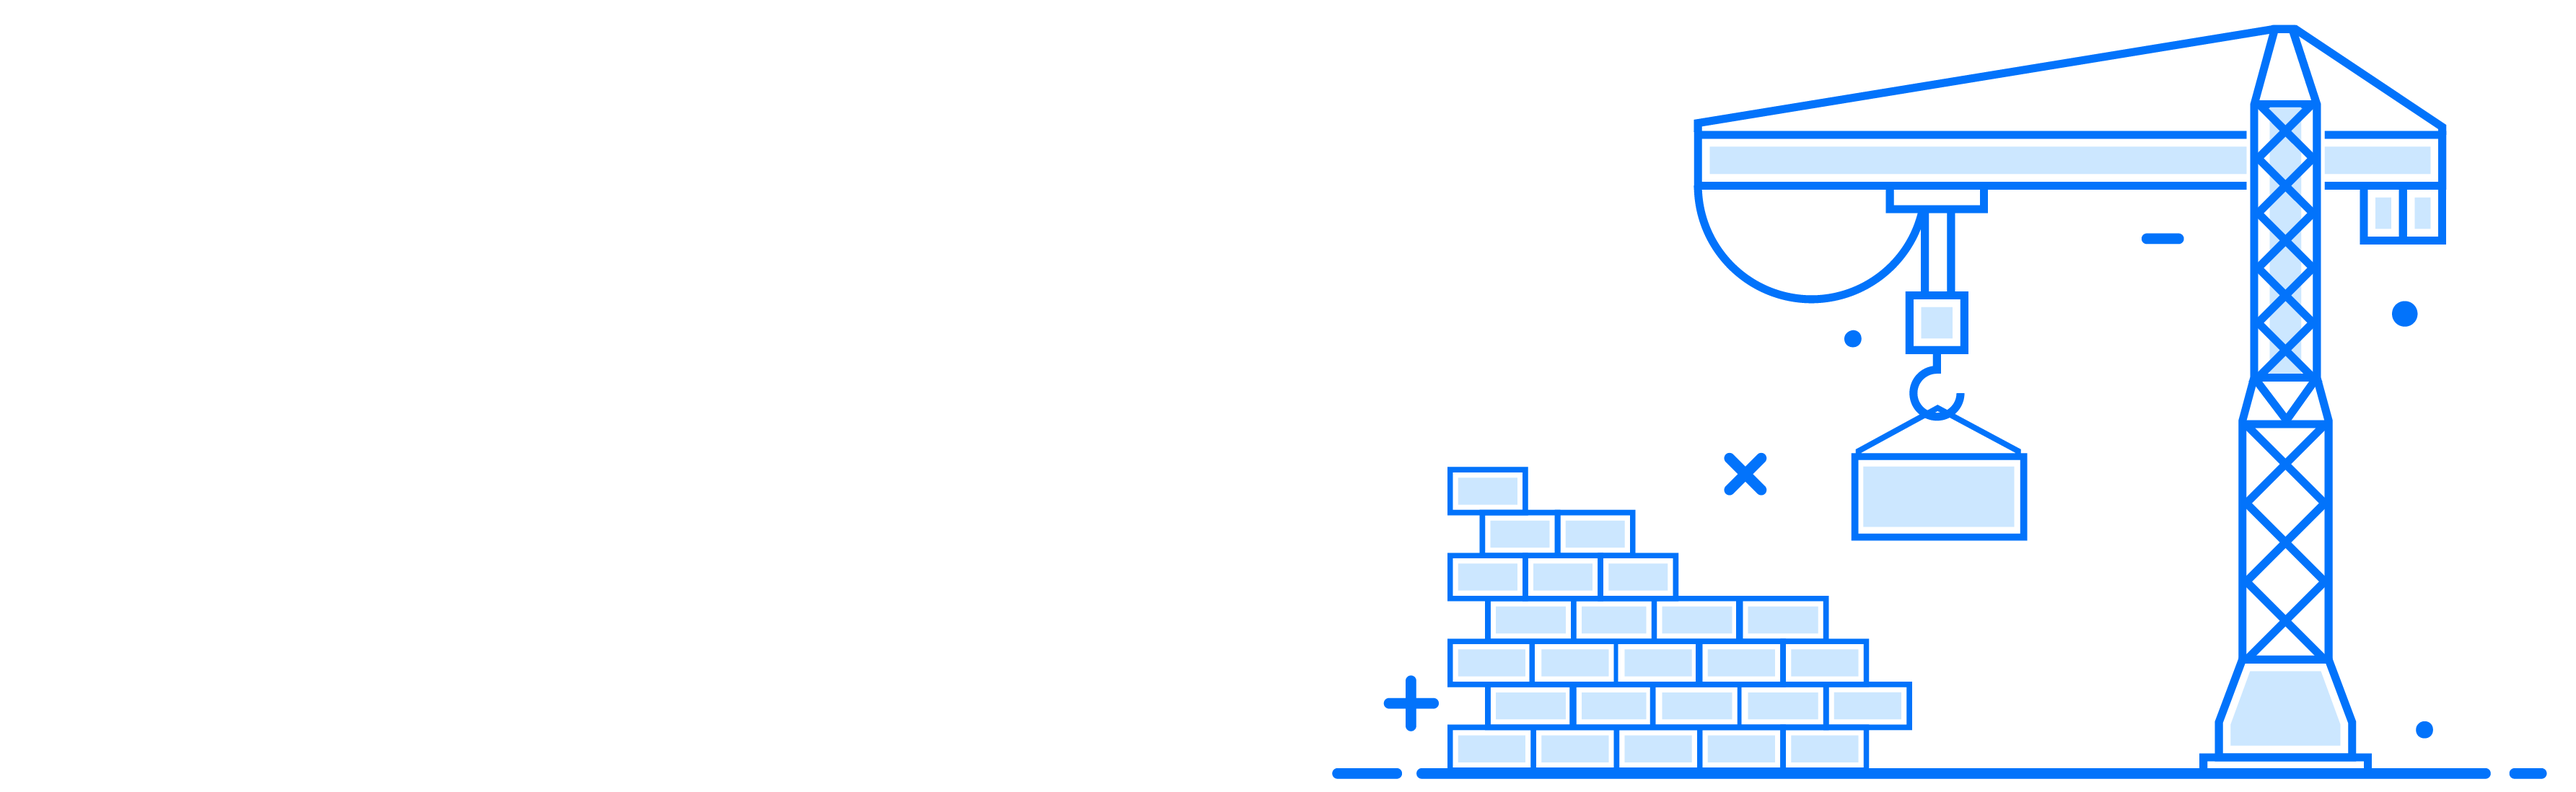
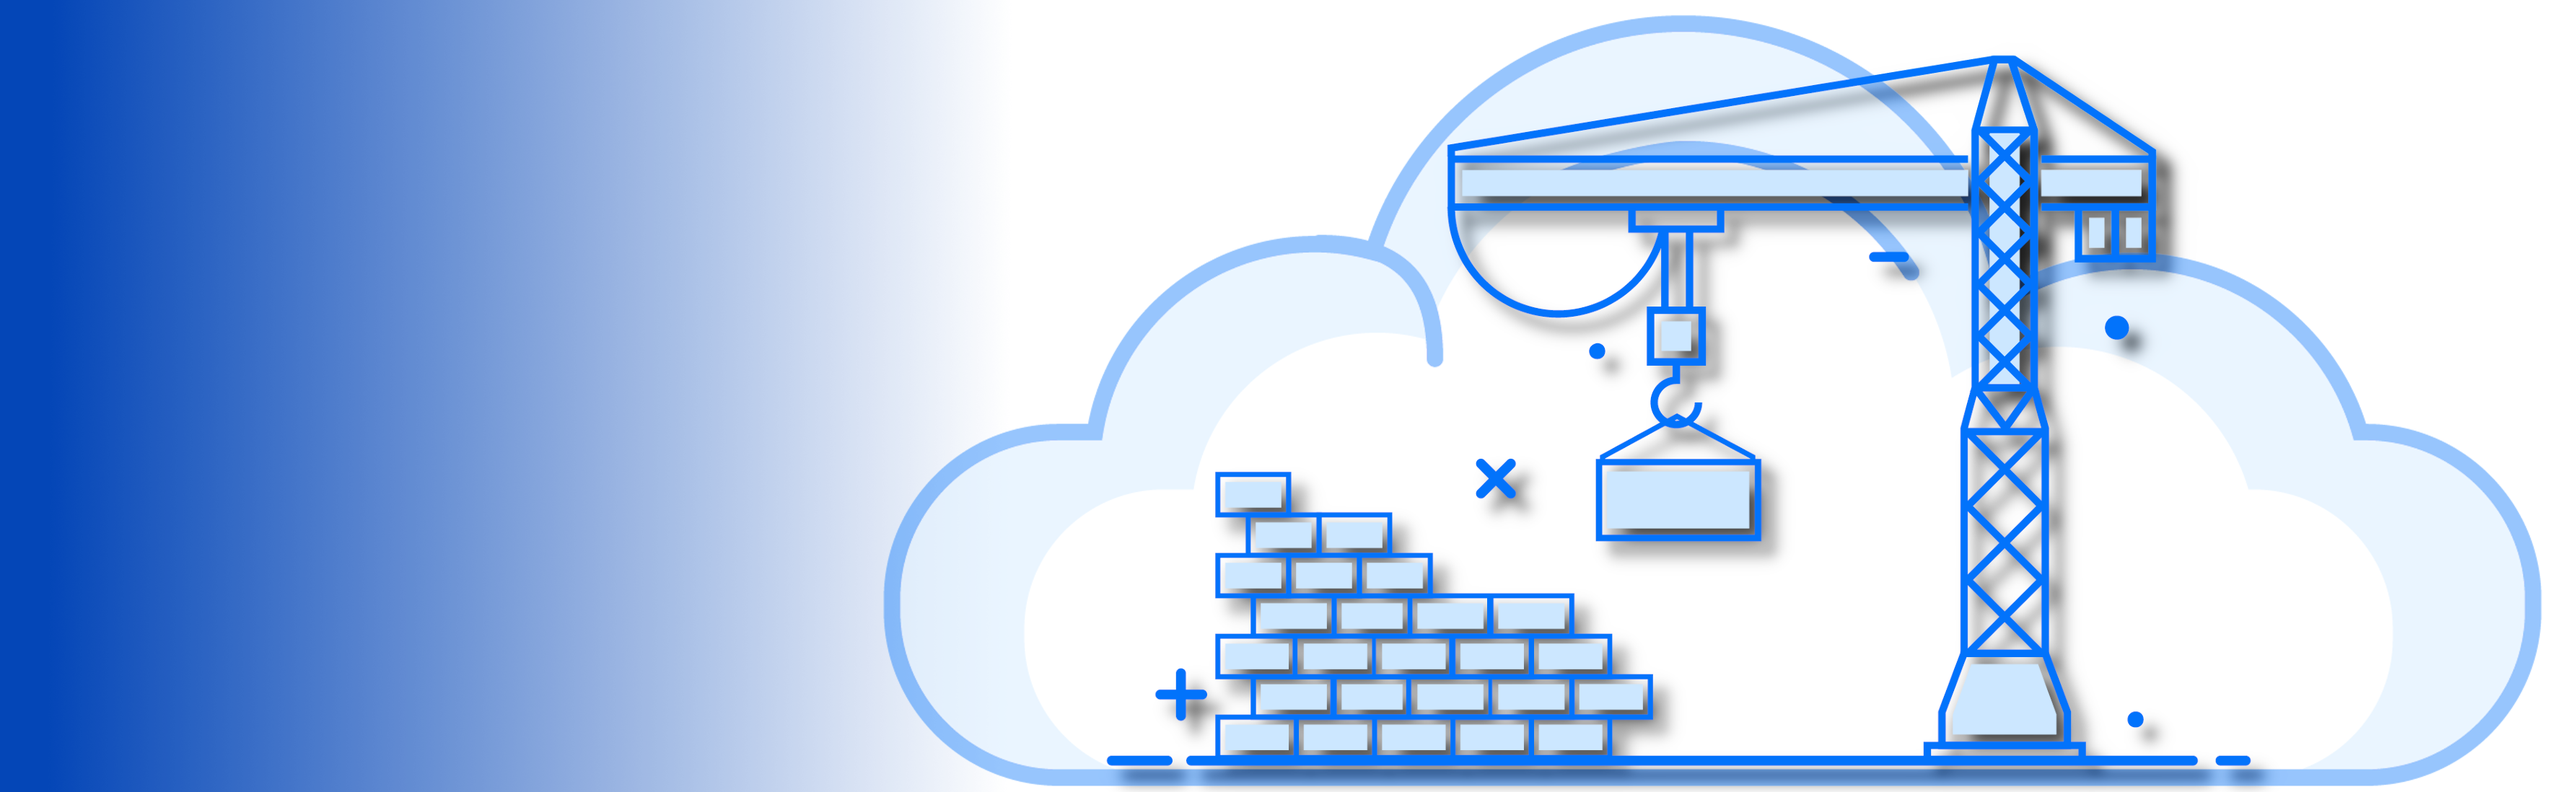
add the home header

diff --git a/docs/_pages/home.md b/docs/_pages/home.md
@@ -4,7 +4,7 @@ permalink: /
 hidden: true
 header:
   image: /assets/images/cloud-header.png
-  overlay_color: "#9bf315"
+#  overlay_color: "#9bf315"
   overlay_image: /assets/images/builder-header.png
   actions:
     - label: "<i class='fas fa-network-wired'></i> Start Here"
